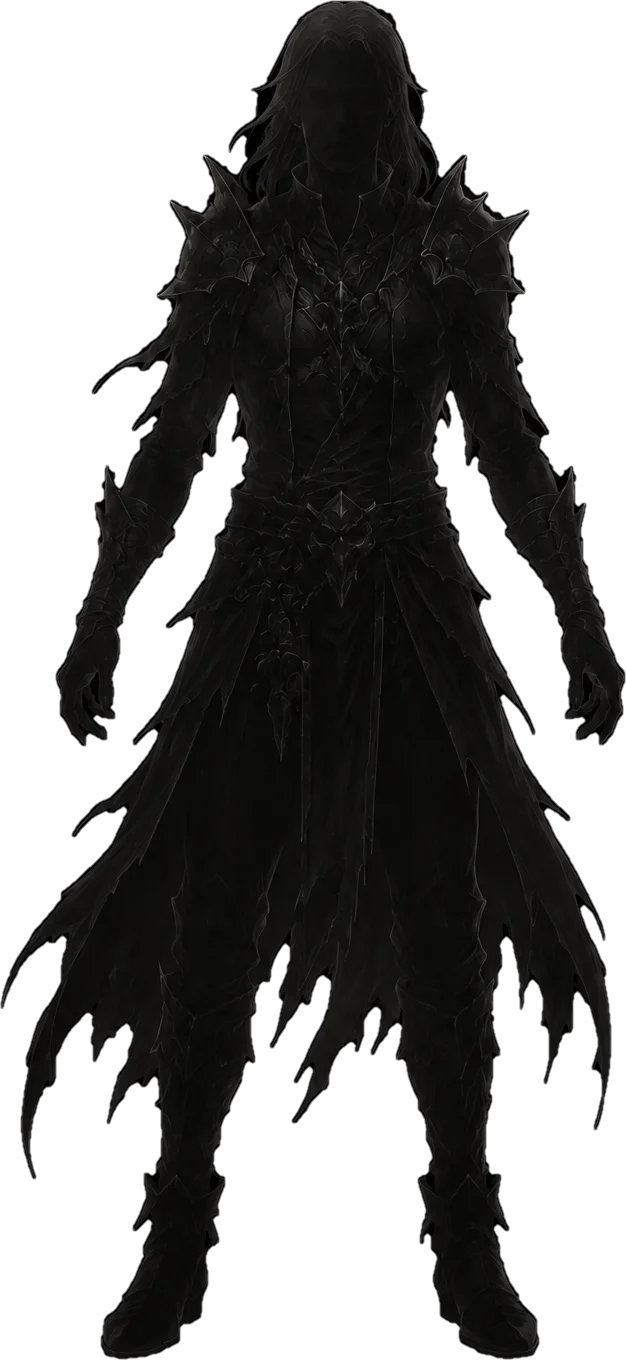
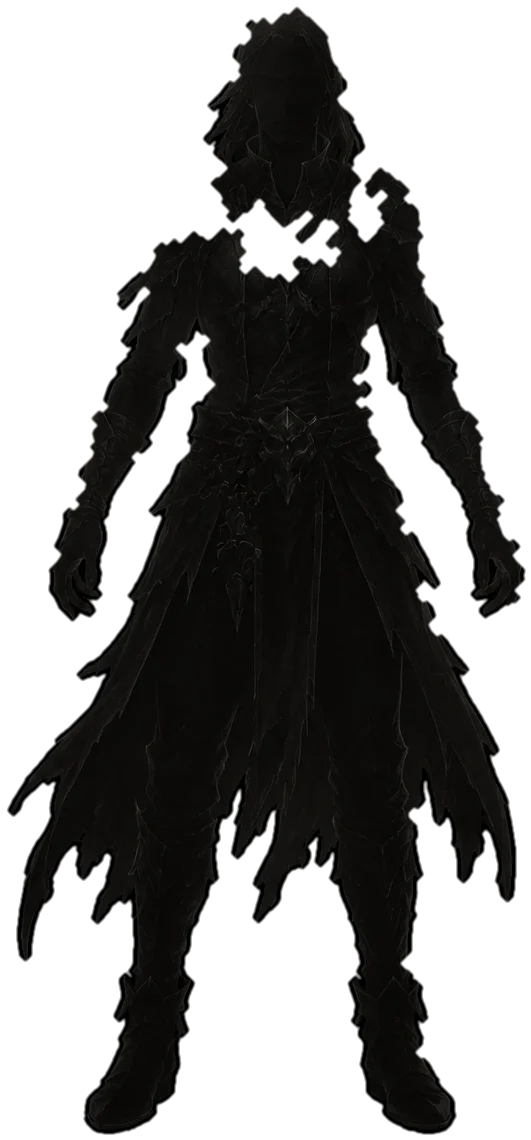
v1.7.12: repainted hero frame with baked black interior, resized ghost
- slot_frame.webp replaced with the owner's new thorned arch, exterior
  black cut away offline, interior kept opaque black (the procedural
  arch-shaped backing is deleted)
- the sheet's baked ghost erased from the frame so claimed slots stay
  clean, and re-cut as the standalone ghost.webp; drawn smaller
  (0.62 frame height, bottom-anchored) so the crown stays clear
- name/level moved just below the skull medallion's hanging gem; the
  plus plate still marks empty vessels
- narrow screens (< 640px) drop the arrow side-gutters so frames keep
  their size; the arrows sit below the frames beside the page dots
- ART_V 7 -> 8 (two existing art files replaced)

Claude-Session: https://claude.ai/code/session_01RXXCK4dWoXwMtWc1DZDHGQ

diff --git a/docs/js/screens.js b/docs/js/screens.js
@@ -136,10 +136,14 @@ const Screens = {
     const FA = frame && frame.naturalWidth ? frame.width / frame.height : 0.60;
     const short = H < 480;
     const gap = Math.max(10, W * 0.02);
-    const gutter = 46;                   // side room reserved for the arrows
+    // On narrow screens the side gutters would starve the frames — the
+    // arrows move DOWN beside the page dots instead (v1.7.12).
+    const narrow = W < 640;
+    const gutter = narrow ? 0 : 46;      // side room reserved for the arrows
     let fh = Math.min(H * (short ? 0.46 : 0.52), 430);
     let fw = fh * FA;
-    if (fw * 3 + gap * 2 > W - 8 - gutter * 2) { fw = (W - 8 - gutter * 2 - gap * 2) / 3; fh = fw / FA; }
+    const avail = W - (narrow ? 20 : 8 + gutter * 2);
+    if (fw * 3 + gap * 2 > avail) { fw = (avail - gap * 2) / 3; fh = fw / FA; }
     const y0 = H * (short ? 0.50 : 0.56) - fh / 2;
     const pages = Math.ceil((Profiles.MAX || 3) / 3);
     if (UI.sel.selPage === undefined) {
@@ -153,25 +157,10 @@ const Screens = {
       const x0 = W / 2 - (fw * 3 + gap * 2) / 2 + k * (fw + gap);
       const snap = Profiles.slots[i];
       const selected = !delMode && UI.sel.pick === i && !!snap;
-      // A black backing INSIDE the frame so the hero reads clearly
-      // (owner rule v1.7.5) — shaped to the arch's MEASURED opening
-      // (v1.7.9 fix: it used to poke past the frame): the interior runs
-      // y 0.11–0.965 and narrows to x 0.21–0.79 up top, so the backing
-      // gets big top corners and starts below the arch crown.
-      {
-        const bx = x0 + fw * 0.10, bw2 = fw * 0.80;
-        const by = y0 + fh * 0.125, bh2 = fh * 0.825;
-        const rt = fw * 0.30, rb = fw * 0.07;   // top / bottom corner radii
-        ctx.fillStyle = 'rgba(2,1,4,0.88)';
-        ctx.beginPath();
-        ctx.moveTo(bx + rt, by);
-        ctx.arcTo(bx + bw2, by, bx + bw2, by + bh2, rt);
-        ctx.arcTo(bx + bw2, by + bh2, bx, by + bh2, rb);
-        ctx.arcTo(bx, by + bh2, bx, by, rb);
-        ctx.arcTo(bx, by, bx + bw2, by, rt);
-        ctx.closePath();
-        ctx.fill();
-      }
+      // (v1.7.12 owner art: the frame painting carries its own OPAQUE BLACK
+      // interior now — the procedural arch-shaped backing is gone. The baked
+      // ghost was erased offline and lives on as the separate ghost.webp so
+      // claimed frames stay clean for the name and level.)
       const mpf = (typeof Input !== 'undefined' && !Input.touchMode) ? Input.mousePos : null;
       const fhov = !!(mpf && mpf.x >= x0 && mpf.x <= x0 + fw && mpf.y >= y0 && mpf.y <= y0 + fh);
       // The frame (procedural arch until the art loads).
@@ -197,14 +186,15 @@ const Screens = {
         } else {
           this.drawNecroFigure(ctx, x0 + fw / 2, y0 + fh * 0.86, fh / 420, '#8fb0e8', false, false);
         }
-        // Name + level up by the frame's divider line.
+        // Name + level under the skull medallion's hanging gem (the new
+        // frame's crown reaches ~0.16 of the height — sit just below it).
         ctx.textAlign = 'center'; ctx.textBaseline = 'middle';
         ctx.font = '600 ' + Math.max(9, Math.round(fw * 0.062)) + 'px Cinzel, Georgia';
         ctx.fillStyle = selected ? '#ffd76a' : '#cfc8b8';
-        ctx.fillText(this.fitText(ctx, (snap.name || 'Nekromancer').toUpperCase(), fw - 26), x0 + fw / 2, y0 + fh * 0.145);
+        ctx.fillText(this.fitText(ctx, (snap.name || 'Nekromancer').toUpperCase(), fw - 26), x0 + fw / 2, y0 + fh * 0.185);
         ctx.font = Math.max(8, Math.round(fw * 0.052)) + 'px Cinzel, Georgia';
         ctx.fillStyle = '#9a8f7a';
-        ctx.fillText('Level ' + (snap.level || 1), x0 + fw / 2, y0 + fh * 0.195);
+        ctx.fillText('Level ' + (snap.level || 1), x0 + fw / 2, y0 + fh * 0.232);
         if (selected) {
           // Soft teal breath around the plinth for the chosen one.
           const pl = 0.25 + 0.12 * Math.sin(t * 2.4);
@@ -216,13 +206,14 @@ const Screens = {
           ? () => { UI.sel.delConfirm = i; }
           : () => { UI.sel.pick = i; });
       } else {
-        // An unclaimed vessel — the ghost waits; the plus plate (25%
-        // opacity, owner spec) is the CREATE button.
+        // An unclaimed vessel — the ghost waits (drawn SMALLER than the
+        // baked original, owner rule v1.7.12, so the crown stays clear);
+        // the plus plate (25% opacity, owner spec) is the CREATE button.
         if (ghost && ghost.complete && ghost.naturalWidth) {
-          const gh2 = fh * 0.58;
+          const gh2 = fh * 0.62;
           const gw2 = gh2 * (ghost.width / ghost.height);
           ctx.globalAlpha = 0.85 + 0.1 * Math.sin(t * 1.1 + i * 2);
-          ctx.drawImage(ghost, x0 + fw / 2 - gw2 / 2, y0 + fh * 0.875 - gh2, gw2, gh2);
+          ctx.drawImage(ghost, x0 + fw / 2 - gw2 / 2, y0 + fh * 0.90 - gh2, gw2, gh2);
           ctx.globalAlpha = 1;
         }
         if (plus && plus.complete && plus.naturalWidth) {
@@ -243,14 +234,17 @@ const Screens = {
       }
     }
 
-    // ---- page arrows (painted plates) + page dots ----
+    // ---- page arrows (painted plates) + page dots. Wide screens: arrows
+    // flank the frame row; narrow screens: arrows sit below, beside the dots ----
     if (pages > 1) {
       const rowL = W / 2 - (fw * 3 + gap * 2) / 2;
-      const ayc = y0 + fh / 2;
+      const abw = narrow ? 40 : Math.min(44, gutter - 4);
+      const ayc = narrow ? y0 + fh + 24 : y0 + fh / 2;
+      const dotY = narrow ? ayc : y0 + fh + (short ? 8 : 12);
       const drawArrow = (key, glyph, ax, cb) => {
         const img = Game.uiImg(key);
         if (img) {
-          const abw = Math.min(44, gutter - 4), abh = Math.round(abw * (img.height / img.width));
+          const abh = Math.round(abw * (img.height / img.width));
           const mpa = (typeof Input !== 'undefined' && !Input.touchMode) ? Input.mousePos : null;
           const hov = !!(mpa && mpa.x >= ax && mpa.x <= ax + abw && mpa.y >= ayc - abh && mpa.y <= ayc + abh);
           ctx.save();
@@ -264,12 +258,13 @@ const Screens = {
           UI.btn(ctx, ax, ayc - 18, 38, 36, glyph, cb, { size: 16 });
         }
       };
-      drawArrow('arrow_left', '◀', Math.max(2, rowL - gutter + 2),
+      drawArrow('arrow_left', '◀',
+        narrow ? W / 2 - 84 - abw / 2 : Math.max(2, rowL - gutter + 2),
         () => { UI.sel.selPage = (page + pages - 1) % pages; AudioSys.sfx('click'); });
-      drawArrow('arrow_right', '▶', Math.min(W - 2 - Math.min(44, gutter - 4), rowL + fw * 3 + gap * 2 + 2),
+      drawArrow('arrow_right', '▶',
+        narrow ? W / 2 + 84 - abw / 2 : Math.min(W - 2 - abw, rowL + fw * 3 + gap * 2 + 2),
         () => { UI.sel.selPage = (page + 1) % pages; AudioSys.sfx('click'); });
-      // Page dots beneath the frames — the current page burns bone-bright.
-      const dotY = y0 + fh + (short ? 8 : 12);
+      // Page dots — the current page burns bone-bright.
       for (let d = 0; d < pages; d++) {
         ctx.fillStyle = d === page ? '#cfc8b8' : 'rgba(207,200,184,0.28)';
         ctx.beginPath(); ctx.arc(W / 2 + (d - (pages - 1) / 2) * 18, dotY, d === page ? 3.4 : 2.4, 0, TAU); ctx.fill();

diff --git a/docs/js/data.js b/docs/js/data.js
@@ -399,11 +399,17 @@ function questRewardTextFor(entry, short) {
   return questRewardTextSrc(entry.src === 'A' ? 'A' : 'L', entry.idx, short);
 }
 
-const GAME_VERSION = 'v1.7.11-alpha';
+const GAME_VERSION = 'v1.7.12-alpha';
 
 // Newest entry first. OWNER RULE: append a new entry (and bump
 // GAME_VERSION) with EVERY addition and bug fix.
 const PATCH_NOTES = [
+  {
+    v: 'v1.7.12-alpha', date: 'July 2026',
+    notes: [
+      'A NEW HERO FRAME — the owner\'s repainted thorned arch replaces the old one on Choose Your Hero: the black inside the arch is part of the painting now (nothing pokes past the borders), the waiting ghost stands a little smaller so the crown stays clear, and the name and level sit neatly beneath the skull\'s hanging gem. The plus plate still marks an empty vessel'
+    ]
+  },
   {
     v: 'v1.7.11-alpha', date: 'July 2026',
     notes: [

diff --git a/docs/index.html b/docs/index.html
@@ -13,10 +13,10 @@
   // served stale (GitHub Pages caches assets ~10 min). Bump BUILD on every
   // js/css change — kept in step with GAME_VERSION in data.js. The stylesheet
   // is written from here too so its version can never lag the scripts again.
-  var BUILD = '1.7.11';
+  var BUILD = '1.7.12';
   // Art version — bump ONLY when a file in art/ actually changes. Heavy
   // paintings stay cached across game releases (BUILD busts only js/css).
-  var ART_V = '7';
+  var ART_V = '8';
   document.write('<link rel="stylesheet" href="css/style.css?v=' + BUILD + '">');
 </script>
 </head>

diff --git a/CLAUDE.md b/CLAUDE.md
@@ -410,6 +410,19 @@ loot at the artisans. The hero is persistent (localStorage).
   the Jeweler's `gemStackList` chips moved gothic→SIMPLE plate (owner
   correction). Character footer: PARAGON + **CAMPFIRE** (renamed from
   CHANGE HERO) on the simple plate.
+- **v1.7.12 — REPAINTED HERO FRAME (owner art)**: `slot_frame.webp` is the
+  owner's new thorned arch, cut offline with the interior KEPT OPAQUE BLACK
+  (owner rule "keep the interior black background") — the v1.7.9/1.7.10
+  procedural arch-shaped backing is DELETED from `Screens.select`. The
+  sheet's baked ghost was ERASED from the frame (claimed slots stay clean)
+  and re-cut as the standalone `ghost.webp` (531×1140), drawn SMALLER by
+  code (fh·0.62, bottom-anchored fh·0.90) so the crown stays clear — owner
+  rule "shrink the ghost so the name and level fit". Name/level moved to
+  fh·0.185/0.232 (below the skull medallion's hanging gem, which reaches
+  ~0.16). Both files REPLACED existing art → **ART_V 7→8**. Select-screen
+  arrows: on narrow screens (W<640) the side gutters are dropped (frames
+  keep full width) and the arrows sit BELOW the frames beside the page
+  dots at `y0+fh+24`.
 - **v1.7.11 — NINE HEROES + IMP WINGS (owner spec)**: (1) `Profiles.MAX`
   3→9 (old 3-slot rosters pad up on `load()`); `Screens.select` pages the
   frames THREE AT A TIME — `UI.sel.selPage` (defaults to the active hero's